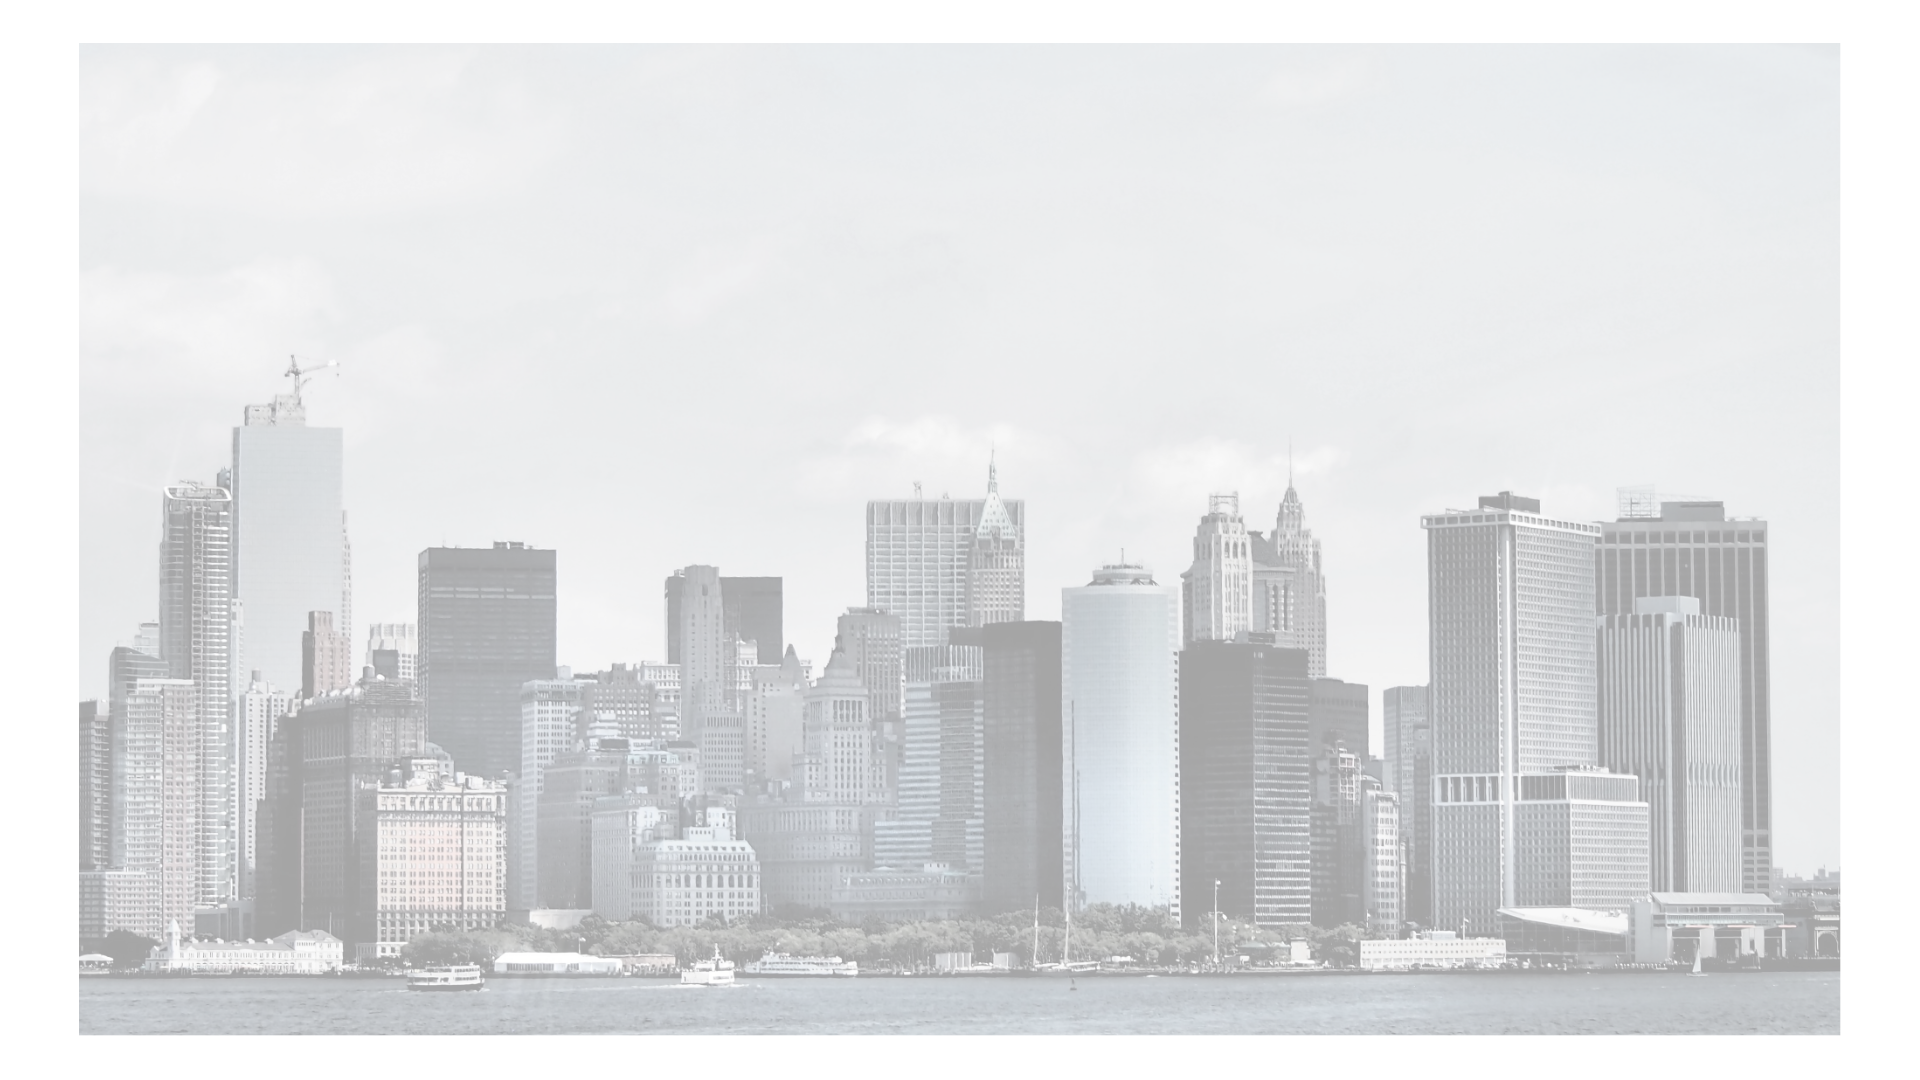
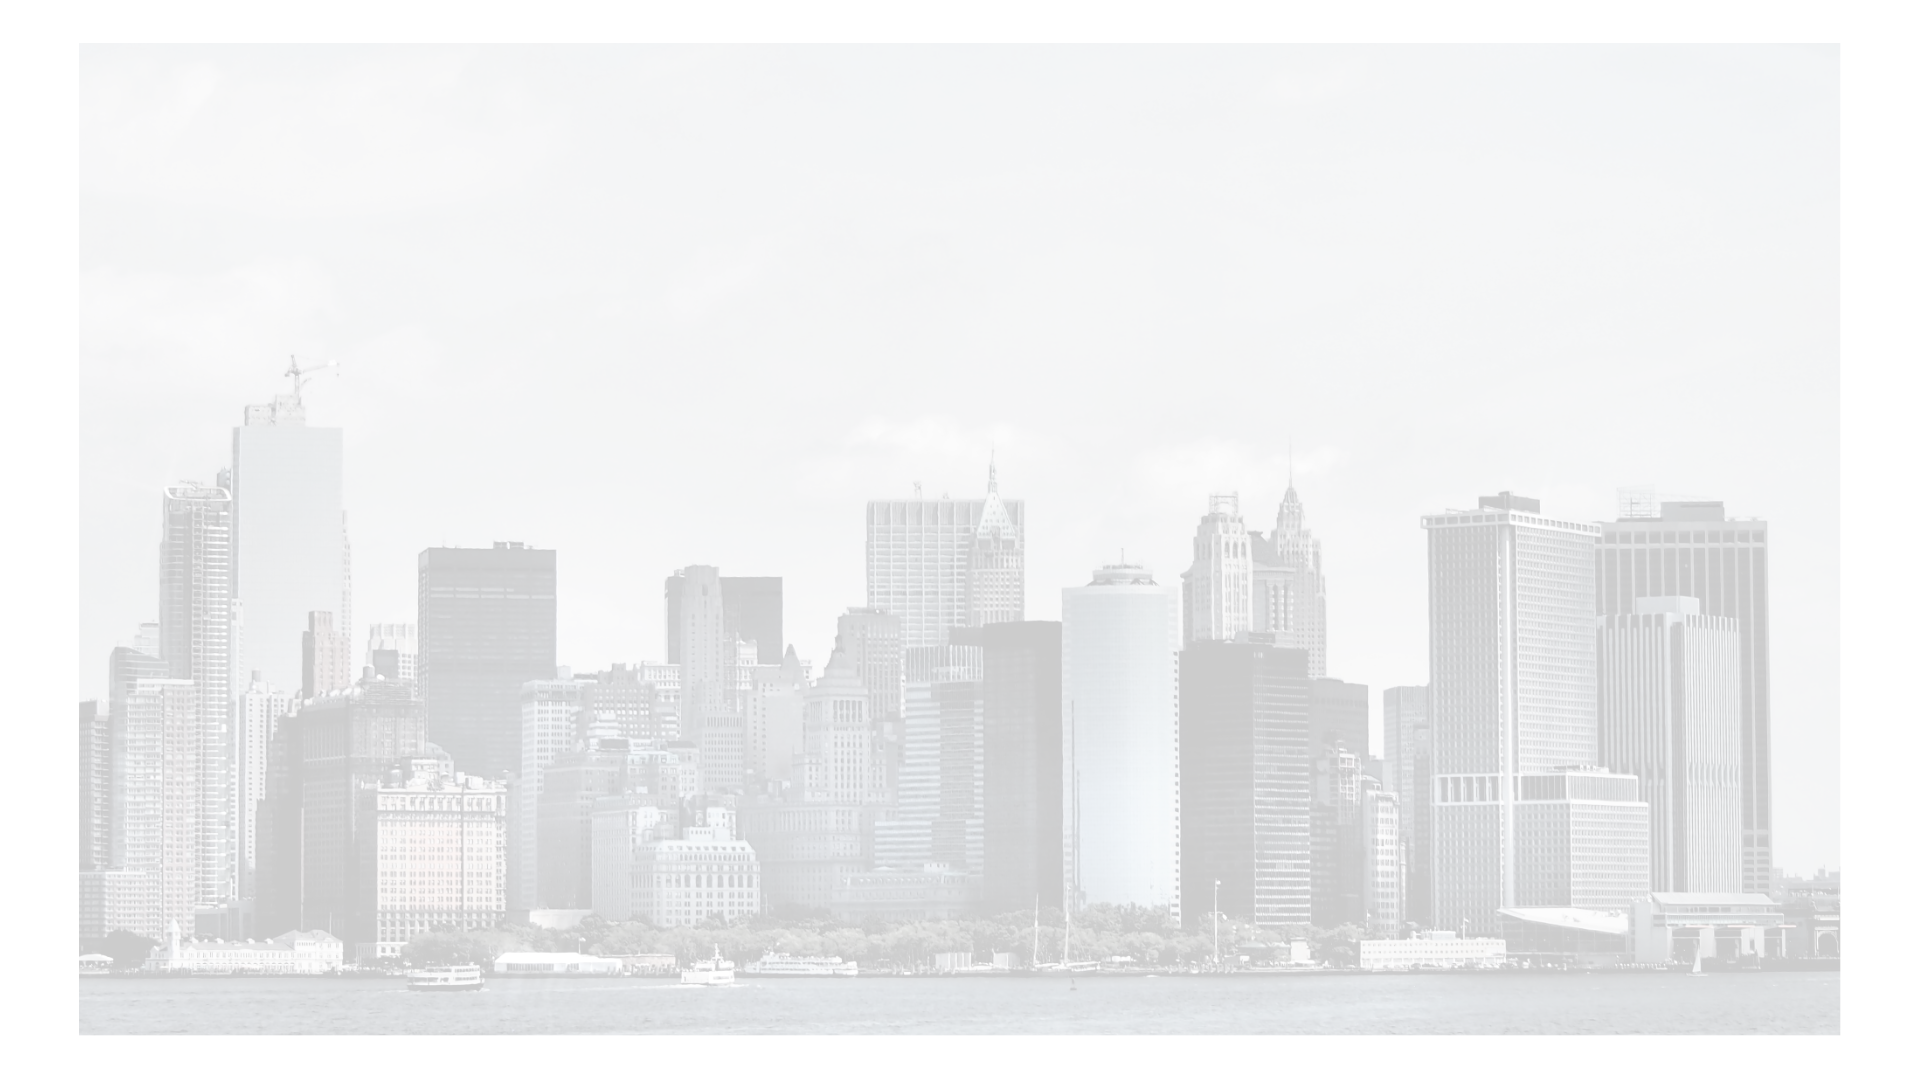
feat(contact): 移除 noValidate 啟用瀏覽器原生必填驗證泡泡，並保留送出後狀態訊息自動清除

Changed region(s): [[0.0312, 0.3972, 0.9688, 0.9778]]

diff --git a/src/components/ContactSection.tsx b/src/components/ContactSection.tsx
@@ -3,14 +3,40 @@
 
 import Image from 'next/image';
 import { useEffect, useRef, useState } from 'react';
-import { MSG, isEmail, fetchJsonWithTimeout } from '@/lib/contact';
+import { MSG, fetchJsonWithTimeout } from '@/lib/contact';
 
 export default function ContactSection() {
   const [sending, setSending] = useState(false);
   const [note, setNote] = useState<string | null>(null);
   const clearNoteTimer = useRef<ReturnType<typeof setTimeout> | null>(null);
 
-  // 元件卸載或下次設定前，清理計時器
+  // 統一顯示訊息（可自動清除）
+  function showNote(msg: string, autoClearMs = 5000) {
+    setNote(msg);
+    if (clearNoteTimer.current) {
+      clearTimeout(clearNoteTimer.current);
+      clearNoteTimer.current = null;
+    }
+    if (autoClearMs > 0) {
+      clearNoteTimer.current = setTimeout(() => {
+        setNote(null);
+        clearNoteTimer.current = null;
+      }, autoClearMs);
+    }
+  }
+
+  // 任一輸入時清掉下方提示文字
+  function handleAnyInput() {
+    if (note) {
+      setNote(null);
+      if (clearNoteTimer.current) {
+        clearTimeout(clearNoteTimer.current);
+        clearNoteTimer.current = null;
+      }
+    }
+  }
+
+  // 卸載時清理計時器
   useEffect(() => {
     return () => {
       if (clearNoteTimer.current) {
@@ -21,7 +47,7 @@ export default function ContactSection() {
   }, []);
 
   async function onSubmit(e: React.FormEvent<HTMLFormElement>) {
-    e.preventDefault();
+    e.preventDefault(); // 表單通過原生驗證後才會進到這裡
     if (sending) return;
 
     setSending(true);
@@ -37,26 +63,14 @@ export default function ContactSection() {
     const message = String(fd.get('message') ?? '').trim();
 
     try {
+      // 若是 bot（填了蜜罐），直接當成功處理
       if (website) {
-        // bot：直接當成功處理，但不顯示任何錯誤
         el.reset();
-        setNote(MSG.ok);
-
-        // 成功訊息 5 秒後自動清除
-        if (clearNoteTimer.current) clearTimeout(clearNoteTimer.current);
-        clearNoteTimer.current = setTimeout(() => setNote(null), 5000);
-
-        return;
-      }
-      if (!name || !phone || !email || !message) {
-        setNote(MSG.fill);
-        return;
-      }
-      if (!isEmail(email)) {
-        setNote(MSG.email);
+        showNote(MSG.ok);
         return;
       }
 
+      // 這裡不再檢查必填與 email 格式，交給瀏覽器原生驗證
       const payload = { name, phone, email, message, website };
 
       const r = await fetchJsonWithTimeout(
@@ -70,17 +84,12 @@ export default function ContactSection() {
       );
 
       if (r === 'success') {
-        // 201/202 皆屬成功，API 內已正確回 2xx
         el.reset();
-        setNote(MSG.ok);
-
-        // 成功訊息 5 秒後自動清除
-        if (clearNoteTimer.current) clearTimeout(clearNoteTimer.current);
-        clearNoteTimer.current = setTimeout(() => setNote(null), 5000);
+        showNote(MSG.ok);
       } else {
-        if (r.error === 'TIMEOUT') setNote(MSG.timeout);
-        else if (r.error === 'NETWORK') setNote(MSG.net);
-        else setNote(MSG.fail);
+        if (r?.error === 'TIMEOUT') showNote(MSG.timeout);
+        else if (r?.error === 'NETWORK') showNote(MSG.net);
+        else showNote(MSG.fail);
       }
     } finally {
       setSending(false);
@@ -96,7 +105,7 @@ export default function ContactSection() {
         className="object-cover object-center"
         priority
       />
-      <div className="absolute inset-0 bg-black/40" />
+      <div className="absolute inset-0 bg-black/20" />
 
       <div className="relative max-w-6xl mx-auto px-6 text-center">
         <h2 className="font-serif font-semibold text-4xl text-white drop-shadow-[0_2px_4px_rgba(0,0,0,0.8)]">
@@ -108,7 +117,8 @@ export default function ContactSection() {
       </div>
 
       <div className="relative mt-10 max-w-4xl mx-auto px-6">
-        <form onSubmit={onSubmit} className="space-y-5" noValidate>
+        {/* ⚠ 移除 noValidate，啟用瀏覽器原生驗證泡泡 */}
+        <form onSubmit={onSubmit} onInput={handleAnyInput} className="space-y-5">
           {/* 蜜罐欄位（請勿移除） */}
           <input type="text" name="website" className="hidden" tabIndex={-1} autoComplete="off" />
 
@@ -138,6 +148,7 @@ export default function ContactSection() {
                 pattern="^[0-9\\-+\\s()]{6,}$"
                 placeholder="請輸入您的電話"
                 className="mt-2 w-full bg-black/30 text-white placeholder-white/80 border border-black rounded-md px-4 py-3 caret-white backdrop-blur-sm focus:outline-none focus:ring-2 focus:ring-black"
+                title="請輸入有效的電話號碼"
               />
             </div>
           </div>
@@ -179,7 +190,7 @@ export default function ContactSection() {
               {sending ? '送出中…' : '填完送出 →'}
             </button>
 
-            {/* 狀態訊息 */}
+            {/* 送出後的狀態訊息（與原生必填泡泡互不衝突） */}
             {note && (
               <p className="mt-3 text-green-100" role="status" aria-live="polite">
                 {note}

diff --git a/src/data/gyms.ts b/src/data/gyms.ts
@@ -14,16 +14,16 @@ export const gyms: Gym[] = [
     name: "Second Wind GYM 青埔形象館",
     address: "320桃園市中壢區青昇路237號",
     hours: "週一至週日 06:00-00:00",
-    phone: "",
-    siteUrl: "", // 若有官網/IG/FB可放
-    tags: ["自由重量", "私人教練", "預約制"],
+    phone: "03-287-3496",
+    siteUrl: "https://www.facebook.com/swg.tw68/?locale=zh_TW",
+    tags: ["自主訓練", "私人教練", "預約制"],
   },
   {
     name: "耕重健身工作室 Cultivate",
     address: "220新北市板橋區三民路一段56號B1",
     hours: "",
     phone: "0915-322-788",
-    siteUrl: "",
-    tags: ["一對一教學", "私人教練", "預約制"],
+    siteUrl: "https://www.instagram.com/cultivate.fit/",
+    tags: ["採全預約制"],
   },
 ];
